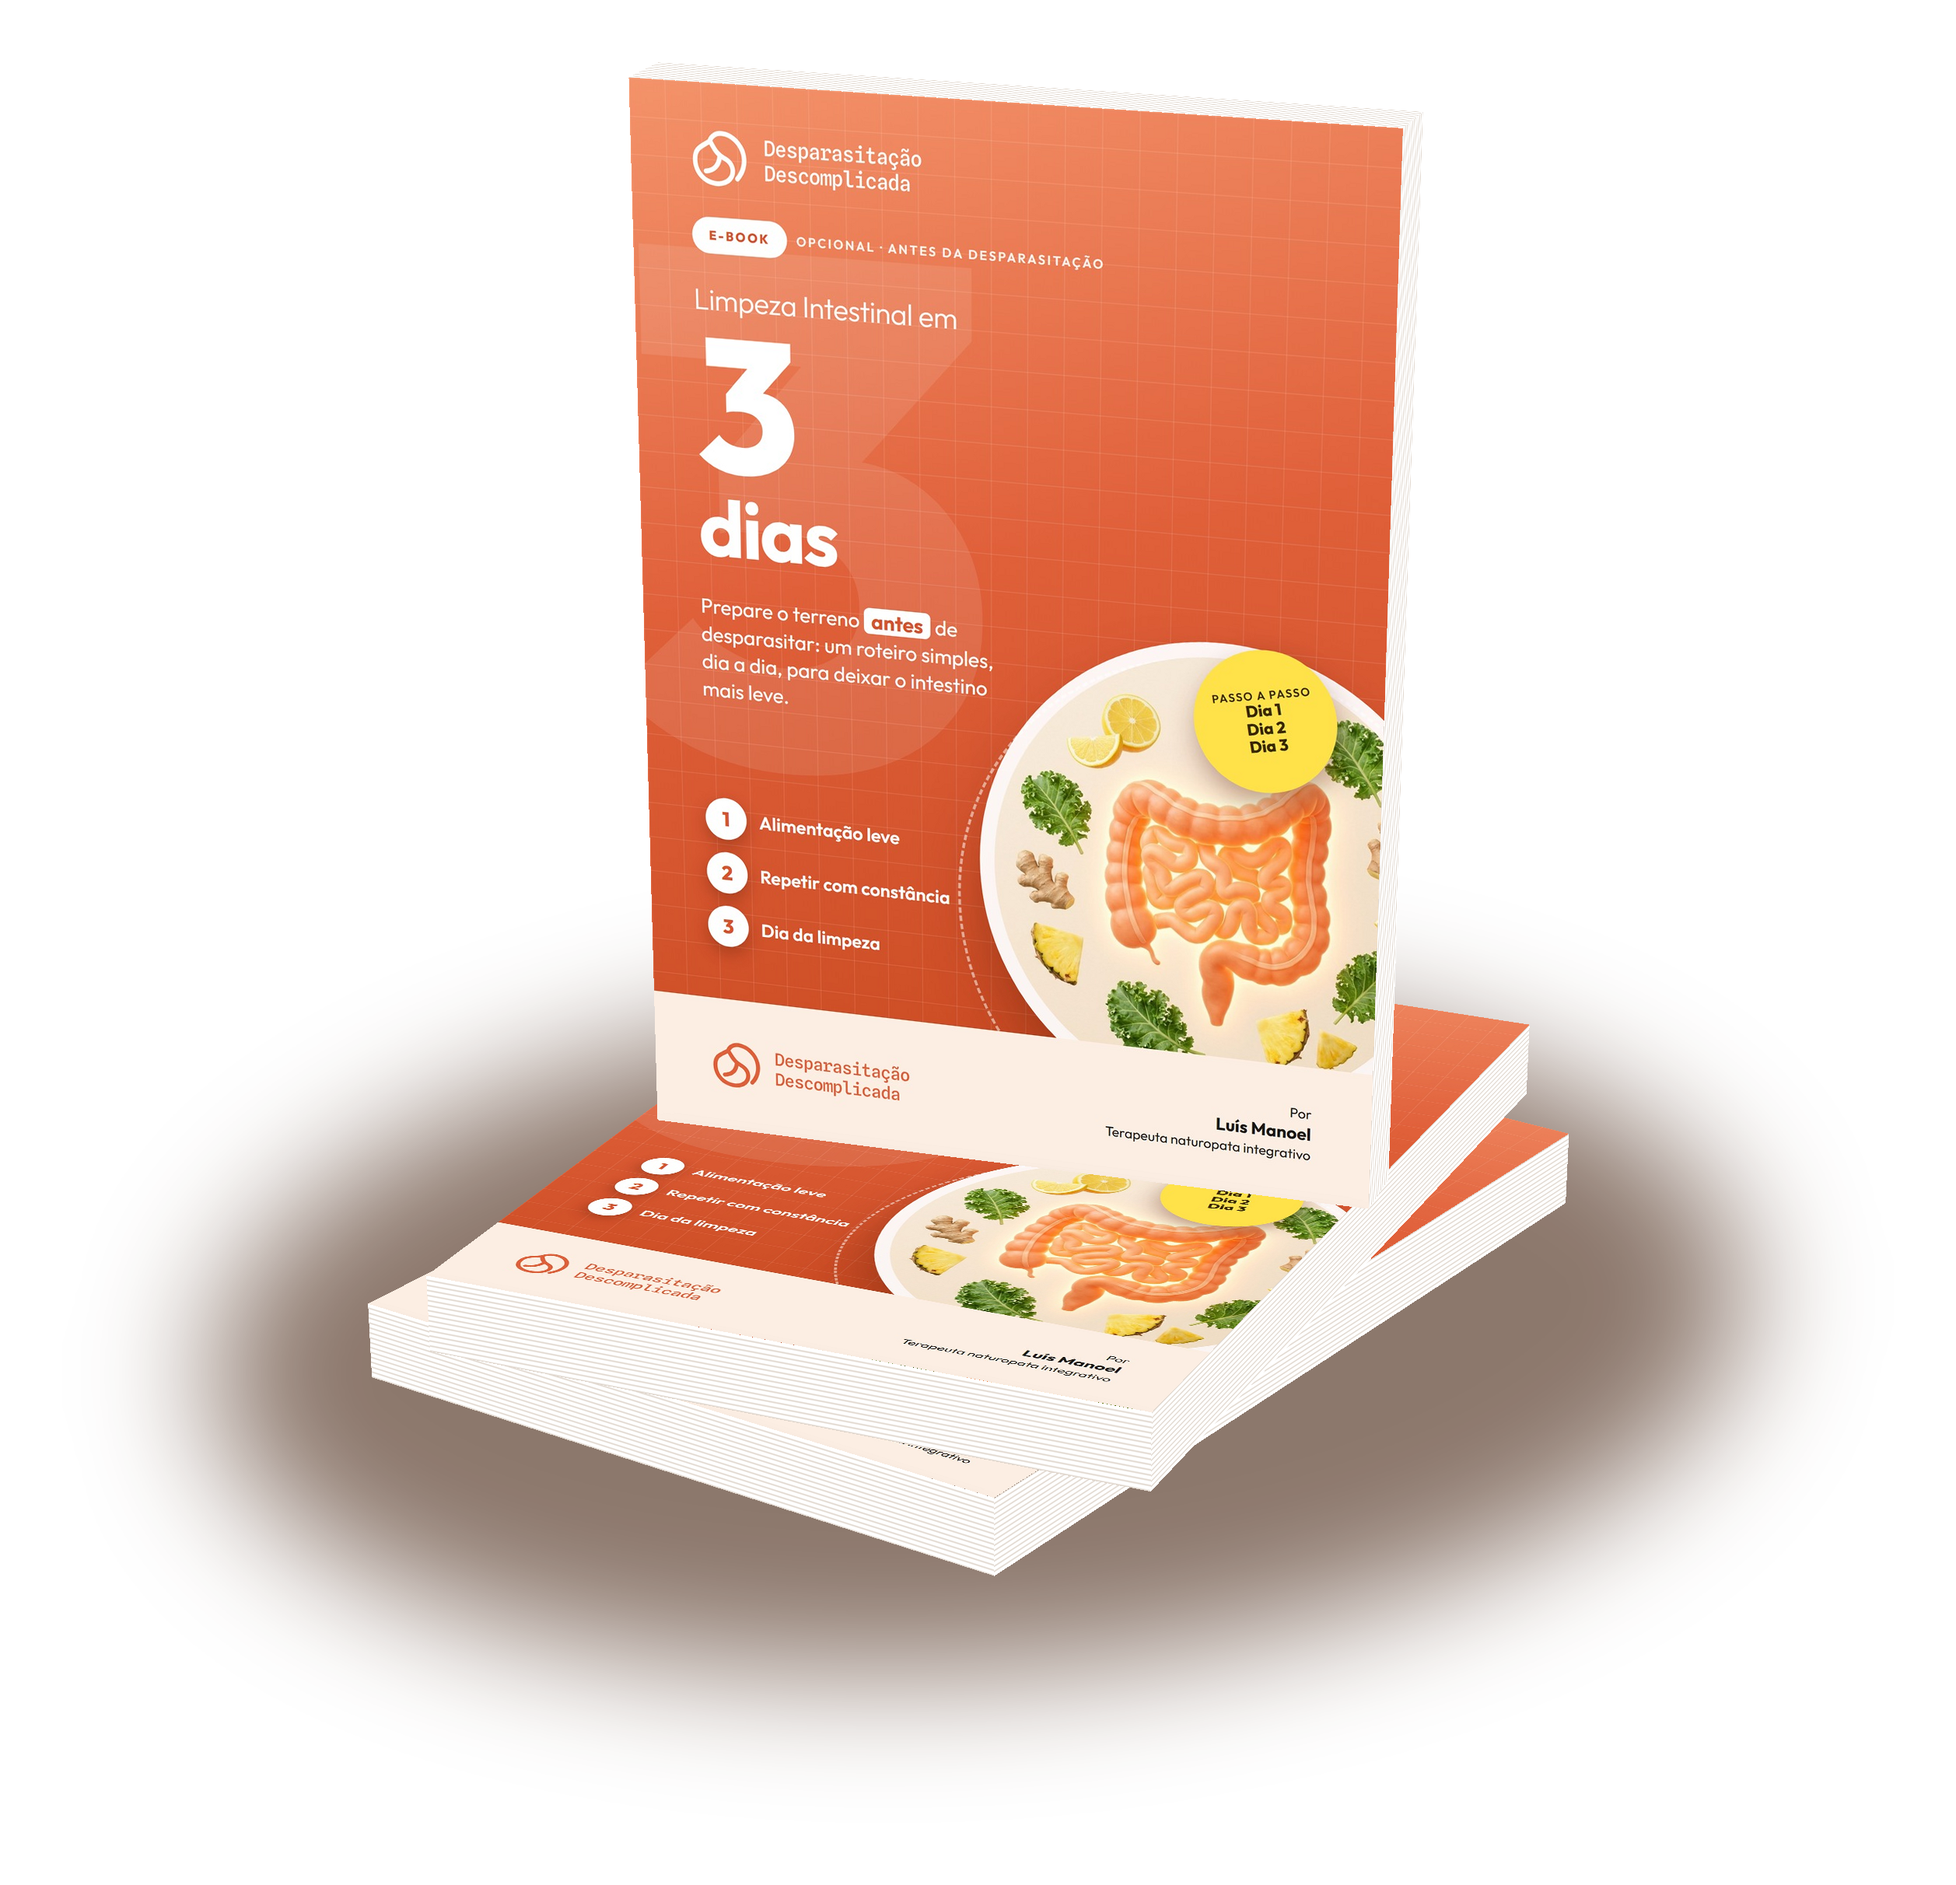
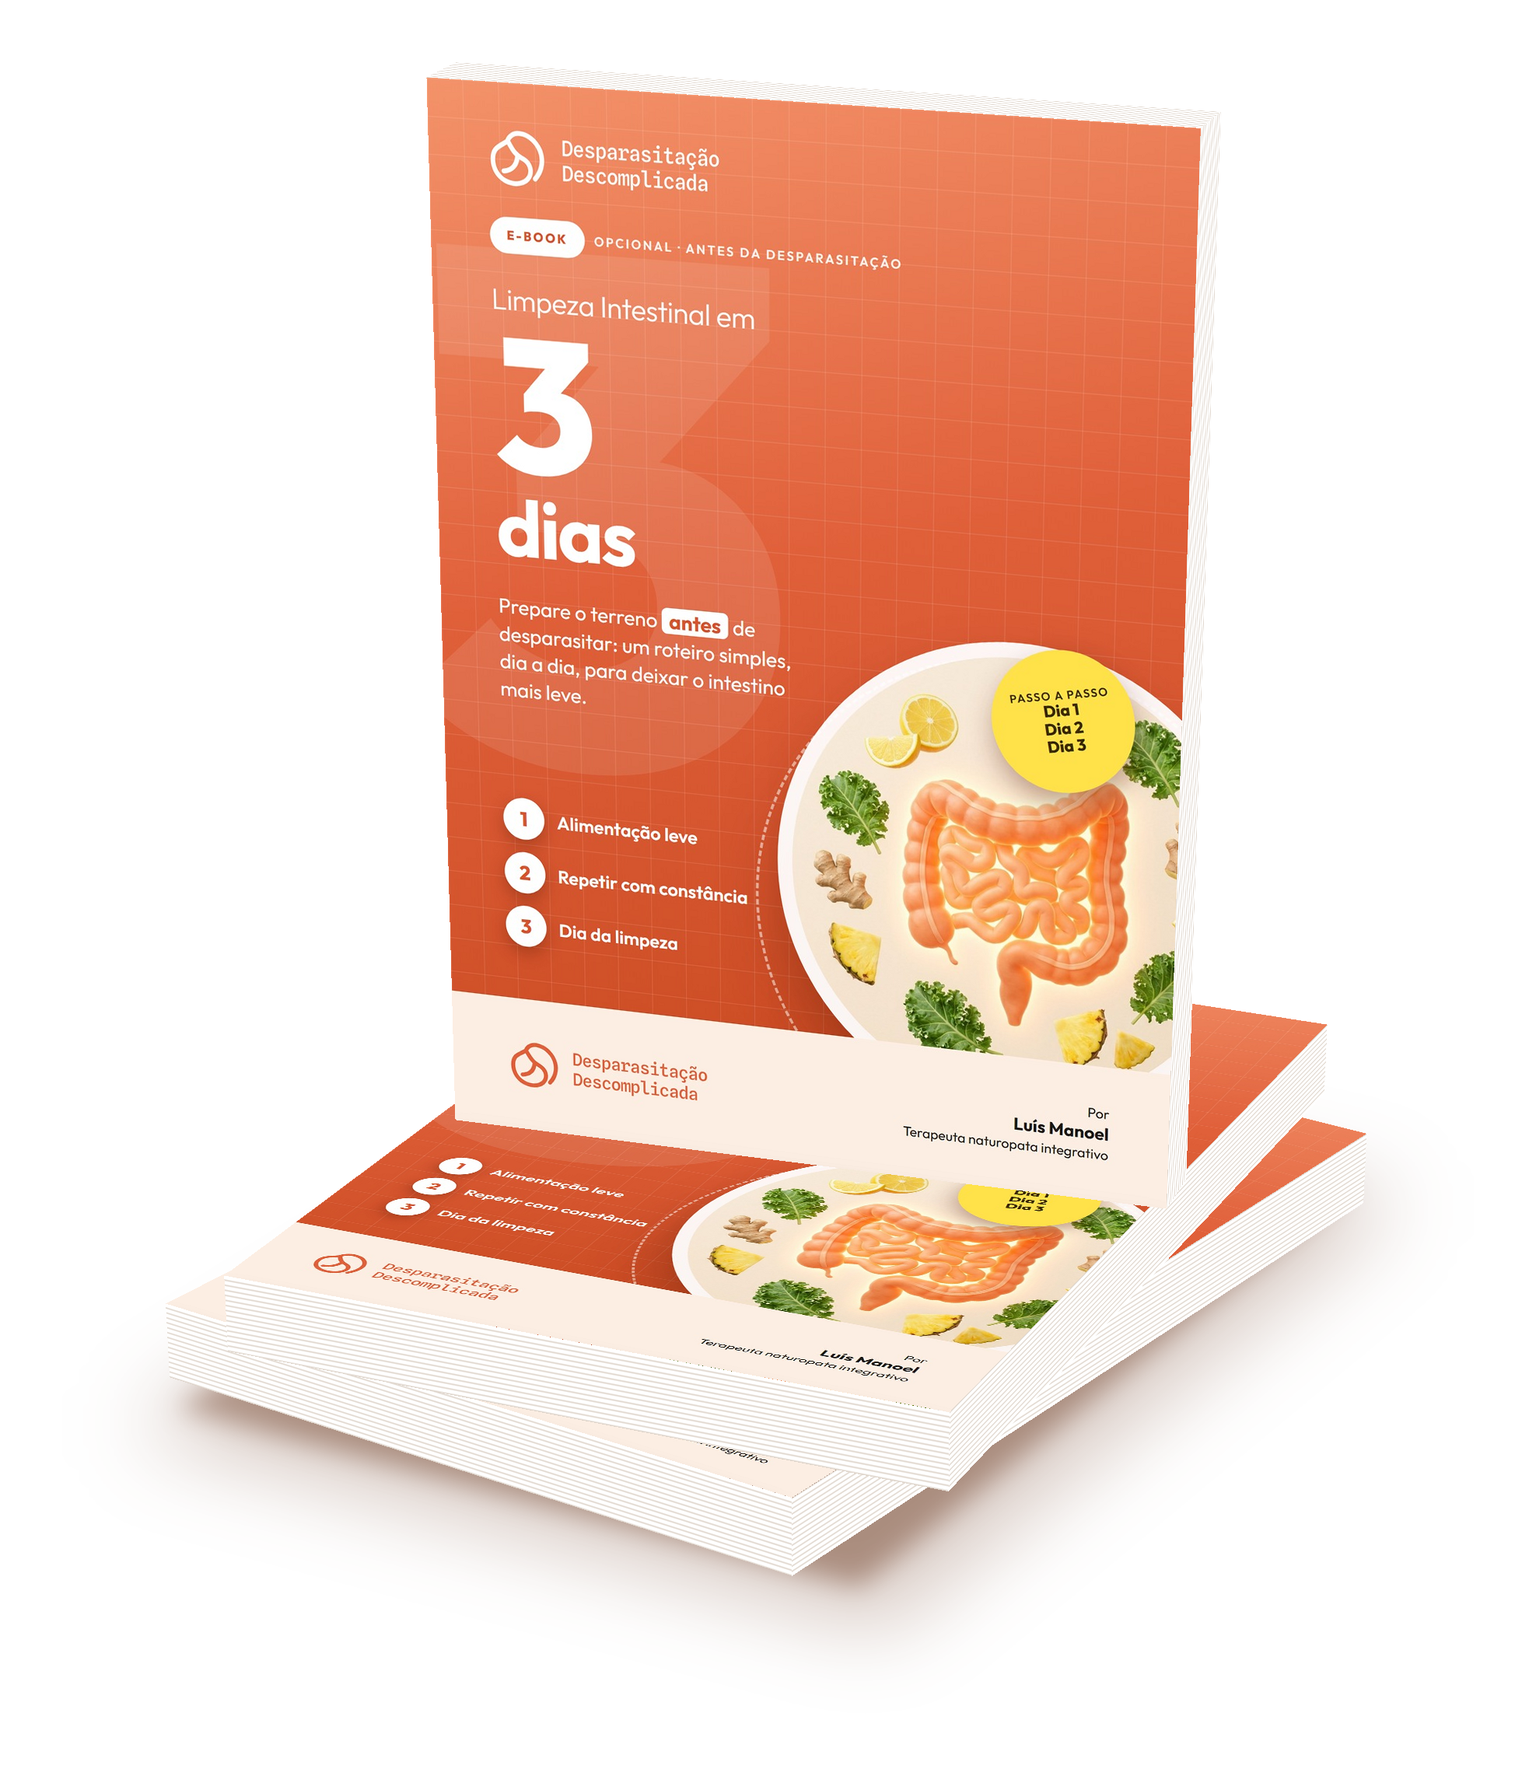
Mockup do ebook: sombra suave e rente a base

diff --git a/Ebooks/src/mockup.py b/Ebooks/src/mockup.py
@@ -125,17 +125,19 @@ def book(canvas, center, r, u, f, yaw):
 
 canvas = Image.new('RGBA', (CW, CH), (0, 0, 0, 0))
 
-# sombra no chao
-sh = Image.new('L', (CW, CH), 0)
-ring = []
-for i in range(48):
-    a = 2 * math.pi * i / 48
-    ring.append(project((math.cos(a) * 470, 0, math.sin(a) * 540))[0])
-ImageDraw.Draw(sh).polygon(ring, fill=150)
-sh = sh.filter(ImageFilter.GaussianBlur(40 * S))
-shadow = Image.new('RGBA', (CW, CH), (60, 25, 5, 255))
-shadow.putalpha(sh)
-canvas.alpha_composite(shadow)
+# sombra no chao: contato curto e suave, rente a base da pilha
+def ground_shadow(grow, off, blur, alpha):
+    sh = Image.new('L', (CW, CH), 0)
+    hw, hd = W / 2 + grow, H / 2 + grow
+    quad = [project((off[0] + sx * hw, 0, off[1] + sz * hd))[0] for sx, sz in ((-1, -1), (1, -1), (1, 1), (-1, 1))]
+    ImageDraw.Draw(sh).polygon(quad, fill=alpha)
+    return sh.filter(ImageFilter.GaussianBlur(blur * S))
+
+
+for grow, off, blur, alpha in ((26, (22, 26), 26, 70), (4, (6, 8), 8, 110)):
+    layer = Image.new('RGBA', (CW, CH), (110, 60, 35, 255))
+    layer.putalpha(ground_shadow(grow, off, blur, alpha))
+    canvas.alpha_composite(layer)
 
 # livros deitados: capa para cima (f=+Y, u=-Z, r=+X)
 book(canvas, (0, D / 2, 0), (1, 0, 0), (0, 0, -1), (0, 1, 0), math.radians(-5))
